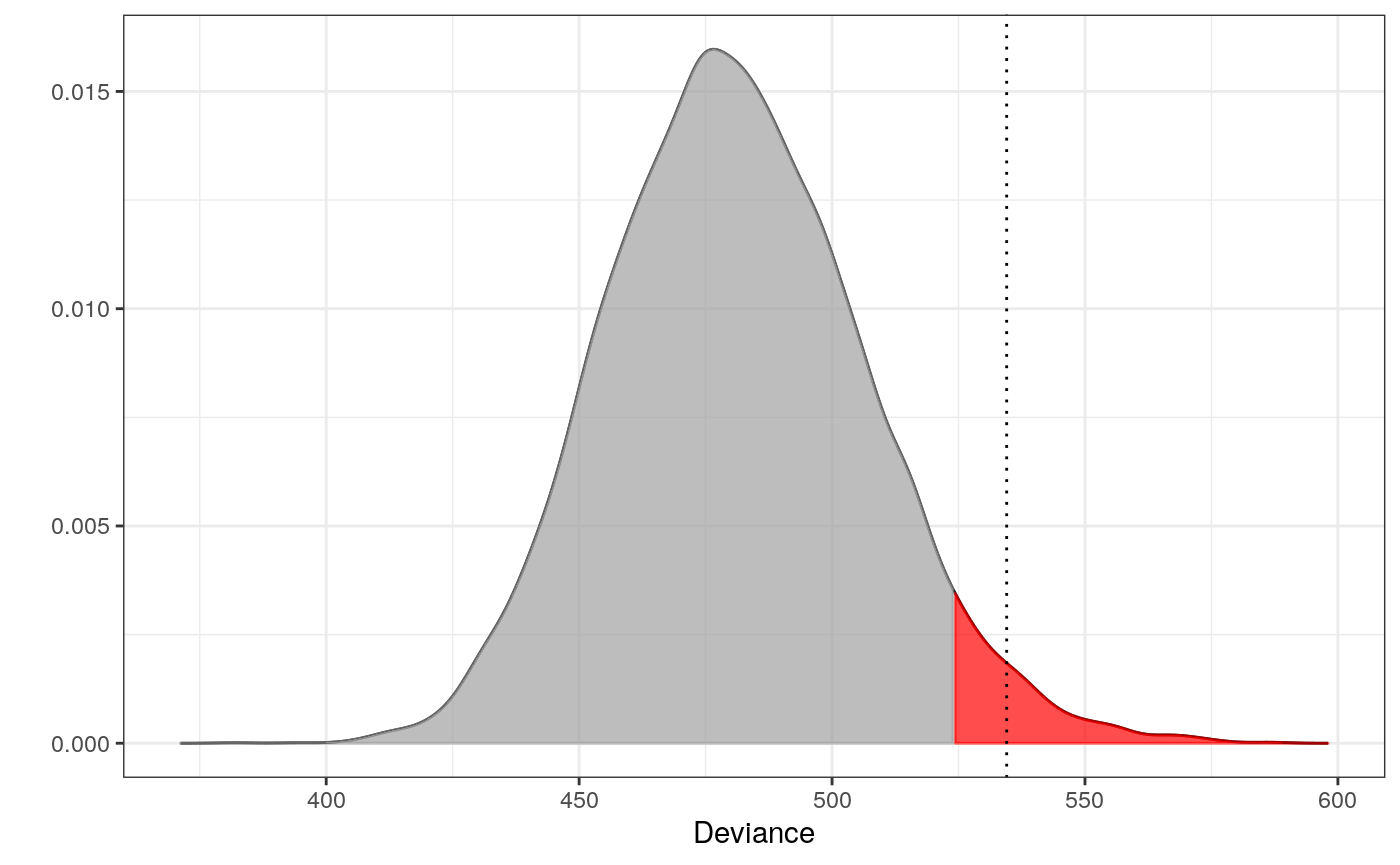
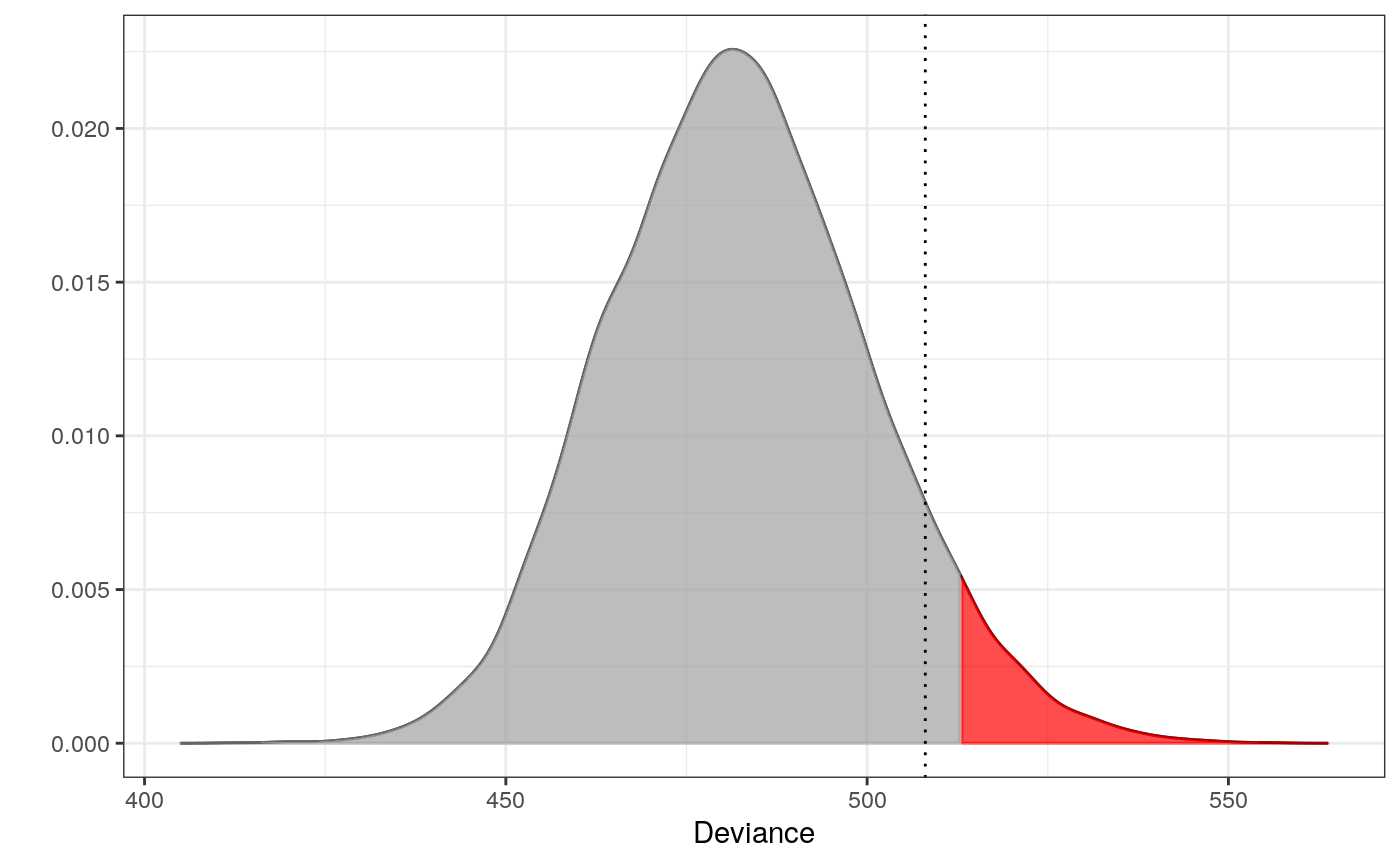
new docs

diff --git a/docs/articles/genetic_example.html b/docs/articles/genetic_example.html
@@ -126,9 +126,6 @@ mat_eur_b &lt;-<span class="st"> </span>eur_b <span class="op">%&gt;%</span><spa
 <span class="co"># Fitting the interaction graphs on the EUR data </span>
 ga &lt;-<span class="st"> </span><span class="kw"><a href="../reference/fit_components.html">fit_components</a></span>(eur_a, <span class="dt">comp =</span> haps, <span class="dt">trace =</span> <span class="ot">FALSE</span>)
 gb &lt;-<span class="st"> </span><span class="kw"><a href="../reference/fit_components.html">fit_components</a></span>(eur_b, <span class="dt">comp =</span> haps, <span class="dt">trace =</span> <span class="ot">FALSE</span>)
-<span class="co"># as_gen = TRUE converts the graph to a gengraph,</span>
-<span class="co"># the main object for graphs in the molic package</span>
-<span class="co"># This enables plotting and print info of the graph:</span>
 <span class="co"># print(ga)</span>
 <span class="co"># plot(ga, vertex.size = 1)</span>
 
@@ -154,24 +151,24 @@ z2  &lt;-<span class="st"> </span>amr <span class="op">%&gt;%</span>
 <span class="co"># The following takes a couple of minutes</span>
 m1 &lt;-<span class="st"> </span><span class="kw"><a href="../reference/fit_outlier.html">fit_outlier</a></span>(mat_eur_a, z1, ga) <span class="co"># consider using more cores (ncores argument)</span>
 m2 &lt;-<span class="st"> </span><span class="kw"><a href="../reference/fit_outlier.html">fit_outlier</a></span>(mat_eur_b, z2, gb) <span class="co"># consider using more cores (ncores argument)</span>
-m  &lt;-<span class="st"> </span><span class="kw"><a href="../reference/fit_mixed_outlier.html">fit_mixed_outlier</a></span>(m1,m1)</code></pre></div>
+m  &lt;-<span class="st"> </span><span class="kw"><a href="../reference/fit_mixed_outlier.html">fit_mixed_outlier</a></span>(m1,m2)</code></pre></div>
 <div class="sourceCode"><pre class="sourceCode r"><code class="sourceCode r"><span class="kw"><a href="https://www.rdocumentation.org/packages/base/topics/print">print</a></span>(m)</code></pre></div>
 <pre><code>## 
 ##  -------------------------------- 
 ##   Simulations: 10000 
 ##   Variables: 302 
 ##   Observations: 1008 
-##   Estimated mean: 481.04 
-##   Estimated variance: 321.26 
+##   Estimated mean: 482.47 
+##   Estimated variance: 322.19 
 ##     ---------------------------   
-##   Critical value: 524.0553 
-##   Deviance: 534.5216 
-##   P-value: 0.0237 
+##   Critical value: 512.9414 
+##   Deviance: 508.0499 
+##   P-value: 0.0819 
 ##   Alpha: 0.05 
 ##   &lt;mixed_outlier, outlier, outlier_model, list&gt; 
 ##  --------------------------------</code></pre>
 <div class="sourceCode"><pre class="sourceCode r"><code class="sourceCode r"><span class="kw"><a href="https://www.rdocumentation.org/packages/graphics/topics/plot">plot</a></span>(m)</code></pre></div>
-<p><img src="genetic_example_files/figure-html/unnamed-chunk-1-1.png" width="700"> We can conclude, from the <code>print</code> and <code>plot</code>, that <code>z</code> does not originate from Europe with a high degree of certainty. The red area depicts the <span class="math inline">\(0.05\)</span> significance level and the dotted line is the observed deviance of <code>z</code> (534.5215917).</p>
+<p><img src="genetic_example_files/figure-html/unnamed-chunk-1-1.png" width="700"> Thus, <code>z</code> does not deviate significantly from the Europe database. The red area depicts the <span class="math inline">\(0.05\)</span> significance level and the dotted line is the observed deviance of <code>z</code> (508.0498712). This is not a surprise, since Americans and Europeans have many similarities.</p>
 </div>
 <div id="references" class="section level1 unnumbered">
 <h1 class="hasAnchor">

diff --git a/docs/reference/walk.bwd.html b/docs/reference/walk.bwd.html
@@ -166,7 +166,8 @@
 <span class='fu'><a href='https://www.rdocumentation.org/packages/base/topics/library'>library</a></span>(<span class='no'>dplyr</span>)
 
 <span class='no'>d</span> <span class='kw'>&lt;-</span> <span class='no'>digits</span> <span class='kw'>%&gt;%</span>
-  <span class='fu'><a href='https://dplyr.tidyverse.org/reference/filter.html'>filter</a></span>(<span class='no'>class</span> <span class='kw'>==</span> <span class='st'>"1"</span>)
+  <span class='fu'><a href='https://dplyr.tidyverse.org/reference/filter.html'>filter</a></span>(<span class='no'>class</span> <span class='kw'>==</span> <span class='st'>"1"</span>) <span class='kw'>%&gt;%</span>
+  <span class='fu'><a href='https://dplyr.tidyverse.org/reference/select.html'>select</a></span>(<span class='fl'>10</span>:<span class='fl'>20</span>) <span class='co'># speed up runtime</span>
 
 <span class='no'>g</span> <span class='kw'>&lt;-</span> <span class='fu'><a href='gengraph.html'>gengraph</a></span>(<span class='no'>d</span>, <span class='kw'>type</span> <span class='kw'>=</span> <span class='st'>"bwd"</span>)
 <span class='no'>s</span> <span class='kw'>&lt;-</span> <span class='fu'><a href='walk.html'>walk</a></span>(<span class='no'>g</span>, <span class='no'>d</span>)

diff --git a/docs/reference/fit_graph.html b/docs/reference/fit_graph.html
@@ -197,7 +197,7 @@
   <span class='fu'><a href='https://dplyr.tidyverse.org/reference/filter.html'>filter</a></span>(<span class='no'>class</span> <span class='kw'>==</span> <span class='st'>"1"</span>) <span class='kw'>%&gt;%</span>
   <span class='fu'><a href='https://dplyr.tidyverse.org/reference/select.html'>select</a></span>(-<span class='no'>class</span>)
 
-<span class='no'>g</span> <span class='kw'>&lt;-</span> <span class='fu'>fit_graph</span>(<span class='no'>d</span>)
+<span class='no'>g</span> <span class='kw'>&lt;-</span> <span class='fu'>fit_graph</span>(<span class='no'>d</span>, <span class='kw'>trace</span> <span class='kw'>=</span> <span class='fl'>FALSE</span>)
 <span class='fu'><a href='https://www.rdocumentation.org/packages/base/topics/print'>print</a></span>(<span class='no'>g</span>)
 <span class='fu'><a href='https://www.rdocumentation.org/packages/graphics/topics/plot'>plot</a></span>(<span class='no'>g</span>, <span class='kw'>vertex.size</span> <span class='kw'>=</span> <span class='fl'>1</span>)
 <span class='no'>adjm</span> <span class='kw'>&lt;-</span> <span class='fu'><a href='adj_mat.html'>adj_mat</a></span>(<span class='no'>g</span>)

diff --git a/docs/articles/outlier_intro.html b/docs/articles/outlier_intro.html
@@ -133,32 +133,32 @@
 <tr class="odd">
 <td align="center">Rejected</td>
 <td align="center">Male</td>
-<td align="center">F</td>
+<td align="center">E</td>
 </tr>
 <tr class="even">
 <td align="center">Rejected</td>
-<td align="center">Male</td>
+<td align="center">Female</td>
 <td align="center">C</td>
 </tr>
 <tr class="odd">
 <td align="center">Admitted</td>
 <td align="center">Female</td>
-<td align="center">A</td>
-</tr>
-<tr class="even">
-<td align="center">Admitted</td>
-<td align="center">Female</td>
-<td align="center">C</td>
-</tr>
-<tr class="odd">
-<td align="center">Rejected</td>
-<td align="center">Male</td>
 <td align="center">D</td>
 </tr>
 <tr class="even">
-<td align="center">Rejected</td>
+<td align="center">Admitted</td>
 <td align="center">Female</td>
 <td align="center">E</td>
+</tr>
+<tr class="odd">
+<td align="center">Rejected</td>
+<td align="center">Male</td>
+<td align="center">F</td>
+</tr>
+<tr class="even">
+<td align="center">Admitted</td>
+<td align="center">Male</td>
+<td align="center">D</td>
 </tr>
 </tbody>
 </table>

diff --git a/docs/index.html b/docs/index.html
@@ -99,7 +99,7 @@
 <li>
 <a href="https://mlindsk.github.io/molic/articles/genetic_example.html">Outlier Detection in Genetic Data</a>: An example of how to conduct an outlier analysis in genetic data.</li>
 <li>
-<a href="https://mlindsk.github.io/molic/articles/dermatitis.html">Detecting Skin Diseases</a>: An example of using the outlier model to detect skin diseases.</li>
+<a href="https://github.com/mlindsk/molic/blob/master/vignettes/dermatitis.Rmd">Detecting Skin Diseases</a>: An example of using the outlier model to detect skin diseases.</li>
 <li>Below we give a brief explanation of how to use <strong>molic</strong> and provide a small toy example. In the documentation (see above), we give examples of the main functions using the <code>digits</code> data <a href="https://archive.ics.uci.edu/ml/index.php">UCI Machine Learning Repository</a>.</li>
 </ul>
 <p>You can install the current stable release of the package by using the <code>devtools</code> package:</p>

diff --git a/docs/reference/rip.html b/docs/reference/rip.html
@@ -126,7 +126,7 @@
     <p>Given a decomposable graph, this functions finds a perfect numbering on the vertices using maximum cardinality search, and hereafter returns a list with two elements: "C" - A RIP-ordering of the cliques and "S" - A RIP ordering of the separators.</p>
     </div>
 
-    <pre class="usage"><span class='fu'>rip</span>(<span class='no'>adj</span>)</pre>
+    <pre class="usage"><span class='fu'>rip</span>(<span class='no'>adj</span>, <span class='kw'>check</span> <span class='kw'>=</span> <span class='fl'>TRUE</span>)</pre>
 
     <h2 class="hasAnchor" id="arguments"><a class="anchor" href="#arguments"></a>Arguments</h2>
     <table class="ref-arguments">
@@ -134,6 +134,10 @@
     <tr>
       <th>adj</th>
       <td><p>A named adjacency list of a decomposable graph</p></td>
+    </tr>
+    <tr>
+      <th>check</th>
+      <td><p>Boolean: check if adj is decomposable</p></td>
     </tr>
     </table>
 

diff --git a/docs/reference/mcs.html b/docs/reference/mcs.html
@@ -126,14 +126,18 @@
     <p>Maximum Cardinality Search</p>
     </div>
 
-    <pre class="usage"><span class='fu'>mcs</span>(<span class='no'>adj</span>)</pre>
+    <pre class="usage"><span class='fu'>mcs</span>(<span class='no'>adj</span>, <span class='kw'>check</span> <span class='kw'>=</span> <span class='fl'>TRUE</span>)</pre>
 
     <h2 class="hasAnchor" id="arguments"><a class="anchor" href="#arguments"></a>Arguments</h2>
     <table class="ref-arguments">
     <colgroup><col class="name" /><col class="desc" /></colgroup>
     <tr>
       <th>adj</th>
-      <td><p>A named adjacency list of a decomposable grah</p></td>
+      <td><p>A named adjacency list of a decomposable graph</p></td>
+    </tr>
+    <tr>
+      <th>check</th>
+      <td><p>Boolean: check if adj is decomposable</p></td>
     </tr>
     </table>
 
